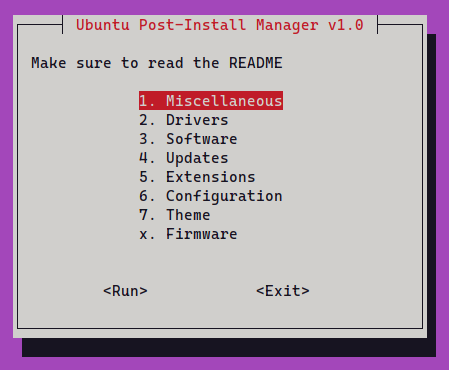
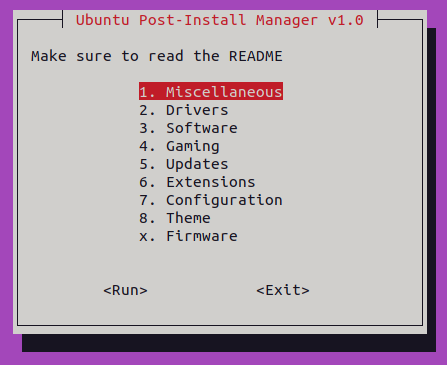
updated demo image updated readme

diff --git a/readme.md b/readme.md
@@ -21,19 +21,20 @@ That way the script has some space to work with.
 
 ### • 1024x768 resolution
 Ubuntu doesn't work too well on resolutions lower than 1024x768.\
-The ArcMenu GNOME extension also needs at least a height of 642 pixels, which is why no menu is displayed on 800x600.
+The ArcMenu GNOME extension also needs at least a height of 642 pixels, which is the menu doesn't displayed at 800x600.
 
 ## How to install & run
 Download the script by clicking the green **"Code ▼"** button here on GitHub, then click **"[Download Zip](https://github.com/Hezkore/Ubuntu-Post-Install-Manager/archive/refs/heads/master.zip)"** and save the file.\
 The file - named **"Ubuntu-Post-Install-Manager-master.zip"** - will most likely save to **"/home/[user]/Downloads/"**.\
 Unpack the script by right clicking **"Ubuntu-Post-Install-Manager-master.zip"** and selecting **"Extract Here"**, which creates the folder **"Ubuntu-Post-Install-Manager-master"**.\
-Double click the **"Ubuntu-Post-Install-Manager-master"** folder to enter it, then right click the file **"ubuntu_pim.sh"** and select the option **"Run as a Program"**.
+Double click the **"Ubuntu-Post-Install-Manager-master"** folder to enter it, then right click the file **"ubuntu_pim.sh"** and select the option **"Run as a Program"**.\
+Follow the steps in order.
 
 ## Navigation & usage
 Press the Up and Down arrow keys to move your selection up and down.\
 Press TAB to move your selection between the lower two menu buttons.\
-Press Enter to confirm your selection.\
-Press Space to toggle a option on or off in the customize menu.
+Press Space to toggle a option on or off in the customize menu.\
+Press Enter to confirm your selection.
 
 ## Notes
 You can run the script right after you've installed Ubuntu, or after you've updated Ubuntu and your drivers.\
@@ -55,7 +56,7 @@ FireFox, Microsoft Edge and Google Chrome are all installed by default.\
 You can uncheck the ones you don't want to install during step **"3. Software"**.\
 If you find yourself without a browser; type `sudo apt install firefox` into a terminal to install FireFox.
 
-If the machine is not made for gaming, messaging or email, then I recommend you *NOT* check these options:
+If you don't like things starting automatically; I recommend you *NOT* check these options:
 * Step **"7. Configuration"**
 	* Uncheck "Configure Geary to check for incoming email"
 	* Uncheck "Configure Telegram to run at start"
@@ -64,7 +65,7 @@ If the machine is not made for gaming, messaging or email, then I recommend you 
 
 *(You can also disable these later by running the application **"Startup Applications"**)*
 
-If the machine is made for gaming, then I recommend reading the [Gaming](#gaming) section for some useful tips and guides.
+If the machine is made for gaming, I recommend reading the [Gaming](#gaming) section for some useful tips and guides.
 
 If Steam, Discord, Telegram or Geary is set to run at start; a login screen will automatically appear for each application when you log in.\
 They will stop appearing once you've signed in to the application.
@@ -77,27 +78,41 @@ You can run the script and check **"Configure Steam to run at start"** in step *
 If you're new to the GNOME file browser *(aka. Nautilus)* you'll quickly notice that clicking the current directory path at the top does nothing, you instead need to press **CTRL + L** to edit it.\
 *(Good for copying or pasting paths)*
 
+Put all your files in **"/home/[user]/"**.\
+The `~` symbol is an alias of **"/home/[user]"**.\
+Avoid putting things in your **"root"** folders, such as **"/usr/local/"**.\
+Use **"~/.local/"** instead to prevent any system issues.
+
 The **"*Windows* key"**  is usually called the **"*Super* key"** in Linux.
 
 Hold **Super** then click and hold your **left mouse button** to drag a window around without having to grab the window's title bar.\
 Hold **Super** then click and hold the **right mouse button** to to resize a window without having to grab the window's edge.\
 *(Learn to use this!)*
 
-* Other keyboard Shortcuts
-	* Flameshot capture screenshot area
-		* **Shift + F1**
-	* Open Nautilus *(files)*
-		* **Super + E**
-	* Open Terminal
-		* **Super + T**
-		* **Ctr + Alt + T**
-	* Open System Monitor
-		* **Ctrl + Alt + Delete**
-		* **Ctrl + Shift + Escape**
+If **"Configure GNOME keyboard shortcuts"** is checked in step **"7. Configuration"**, the following shortcuts are available:
+* Flameshot capture screenshot area
+	* **Shift + F1**
+		* While capturing area >
+			* **Ctrl + S** to save to ~/Pictures
+			* **Ctrl + C** to copy to clipboard
+* Open Nautilus *(files)*
+	* **Super + E**
+* Open Terminal
+	* **Ctr + Alt + T**
+	* **Super + T**
+* Open System Monitor
+	* **Ctrl + Alt + Delete**
+	* **Ctrl + Shift + Escape**
+* Play Quake 3 *(if **"Install  [io]Quake 3..."** is checked in step **"4. Gaming"**)*
+	* **Super + Q**
 
 ## Gaming
-Wine and Proton let's you run Windows software and games on Linux.\
-Wine is commonly used applications, while Proton *(based on Wine)* is mainly used for games.\
+Step **"4. Gaming"** is an optional step and safe to skip.
+
+Wine *(from step **"3. Software"**)* and Proton *(part of Steam from step **"4. Gaming"**)* let's you run Windows software and games on Linux.\
+Wine is commonly used applications, while Proton *(based on Wine)* is mainly used for games.
+
+Visit [ProtonDB.com](https://www.protondb.com/) to find out if your favorite games runs on Linux.\
 You can read more about Proton [here](https://www.gamingonlinux.com/2019/07/a-simple-guide-to-steam-play-valves-technology-for-playing-windows-games-on-linux/).
 
 To enable Proton in Steam; start Steam and click:
@@ -106,7 +121,7 @@ To enable Proton in Steam; start Steam and click:
 		* Steam Play >
 			* "Enable Steam Play for supported titles"
 			* "Enable Steam Play for all other titles"
-		* Shader Pre-Caching
+		* Shader Pre-Caching >
 			* "Enable Shader Pre-Caching"
 			* "Allow background processing of Vulkan shaders"
 		* *(recommended)*
@@ -118,14 +133,14 @@ To enable Proton in Steam; start Steam and click:
 				* "Low Bandwidth Mode"
 				* "Low Performance Mode"
 
-Visit [ProtonDB.com](https://www.protondb.com/) to find out if your favorite games runs on Linux.
-
-Adding a non-Steam game to Steam lets you use Proton with local games, you can also use Lutris for gaming.
+Adding a non-Steam game to Steam lets you use Proton with local games.\
+You can also use Lutris *(from step **"4. Gaming"**)* to play locally installed games.
 
 You can enable Game Mode in Steam by right clicking any game > Properties ... > Launch Options > Write `gamemoderun %command%`.\
 I have not noticed any performance increase using Game Mode.
 
-Use GOverlay to enable a in-game FPS counter, effects and many other things.\
+Use GOverlay *(from step **"4. Gaming"**)* to enable a in-game FPS counter, effects and many other things.\
 Start the application **"GOverlay"** and check **"Global Enable"** in the MangoHud tab, and make sure the **"Hide"** checkbox is checked in the **"Visual"** section.\
 Don't forget to click **"Save"** at the bottom of the window and restart/log out!\
-Press **Right Shift + F12** in-game to toggle MangoHud.
+You won't ever have to start GOverlay again.\
+Press **Right Shift + F12** in Vulkan based games to toggle MangoHud *(from step **"4. Gaming"**)* on and off.
